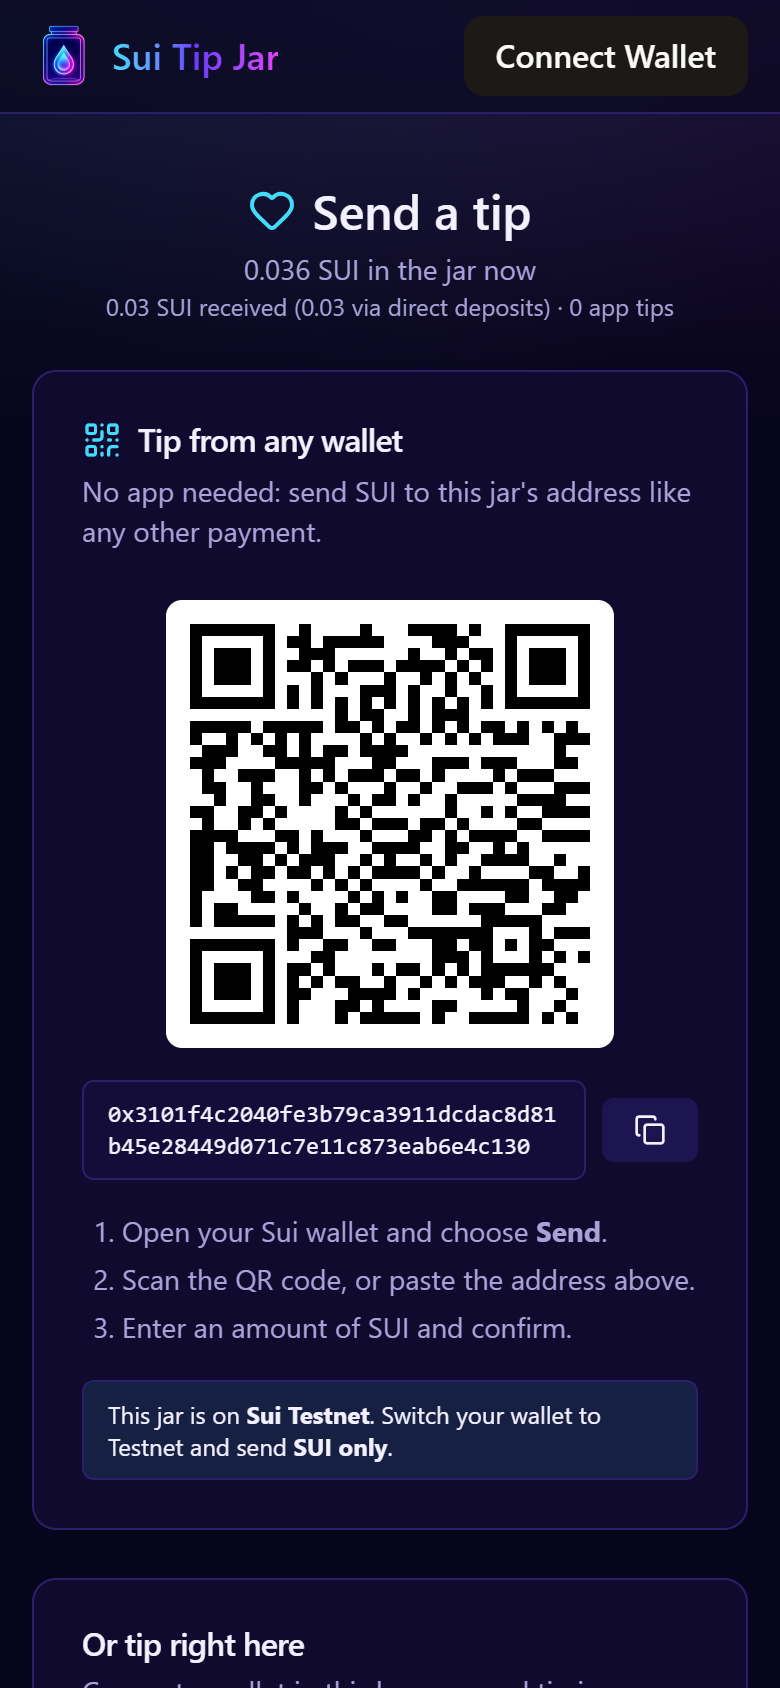
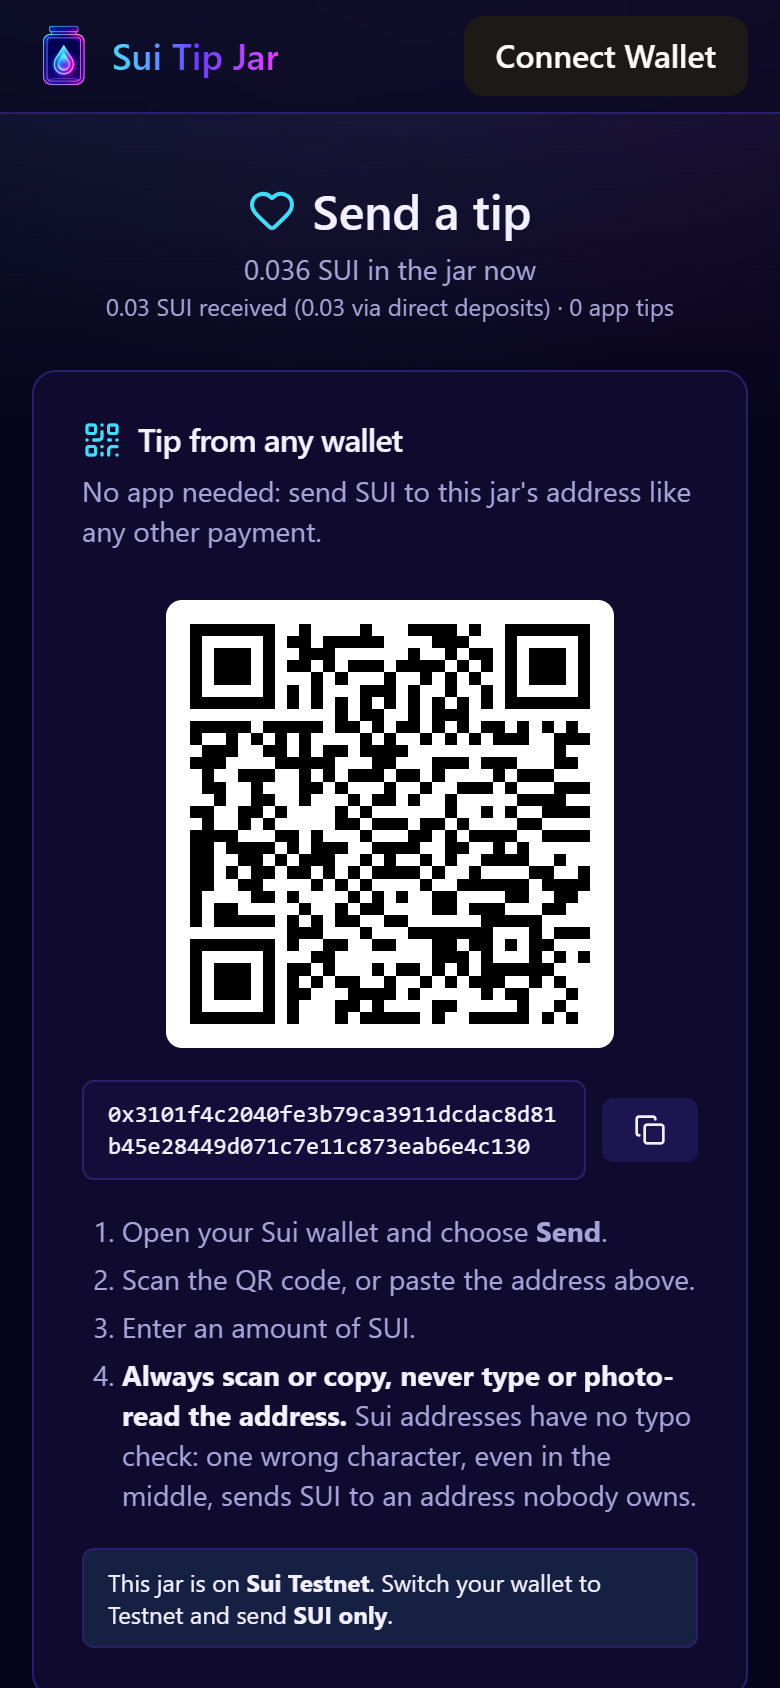
Guard against mistyped jar addresses: copy button, shortened ID, scan-or-copy warning

Changed region(s): [[0.0923, 0.7701, 0.9231, 0.9858], [0.0308, 0.8934, 0.0615, 0.9242]]

diff --git a/frontend/src/MyJars.tsx b/frontend/src/MyJars.tsx
@@ -11,6 +11,7 @@ import {
   formatSui,
   OWNER_CAP_TYPE,
   OwnerCapBcs,
+  shortAddress,
   tipSummary,
   withdrawAllTx,
 } from "./tipJar";
@@ -109,22 +110,26 @@ function JarCard({ jarId, capId, owner }: { jarId: string; capId: string; owner:
   const jar = useJar(jarId);
   const deposits = usePendingDeposits(jarId);
   const { run, pending, error } = useTransact();
-  const [copied, setCopied] = useState(false);
+  const [copied, setCopied] = useState<"link" | "address" | null>(null);
   const [showActivity, setShowActivity] = useState(false);
   const funds = jar.data ? BigInt(jar.data.funds) : 0n;
   const waiting = deposits.data?.total ?? 0n;
   const waitingCount = deposits.data ? deposits.data.coinIds.length + (deposits.data.addressBalance > 0n ? 1 : 0) : 0;
 
-  async function copy() {
-    await navigator.clipboard.writeText(tipLink(jarId));
-    setCopied(true);
-    setTimeout(() => setCopied(false), 1500);
+  async function copy(what: "link" | "address") {
+    await navigator.clipboard.writeText(what === "link" ? tipLink(jarId) : jarId);
+    setCopied(what);
+    setTimeout(() => setCopied(null), 1500);
   }
 
   return (
     <Card>
       <CardHeader>
-        <CardTitle className="font-mono text-sm break-all">{jarId}</CardTitle>
+        {/* Shortened on purpose: Sui addresses have no checksum, so a retyped or
+            photo-scanned address with one wrong character sends funds to nobody. */}
+        <CardTitle title={jarId}>
+          Tip jar <span className="font-mono text-sm text-muted-foreground">{shortAddress(jarId)}</span>
+        </CardTitle>
         <CardDescription>
           {jar.data ? `${tipSummary(jar.data)} all-time` : "Loading..."}
         </CardDescription>
@@ -140,13 +145,17 @@ function JarCard({ jarId, capId, owner }: { jarId: string; capId: string; owner:
           )}
         </div>
         <div className="flex flex-wrap gap-2">
-          <Button variant="secondary" onClick={copy}>
-            {copied ? <Check className="h-4 w-4" /> : <Copy className="h-4 w-4" />}
-            {copied ? "Copied" : "Copy tip link"}
+          <Button variant="secondary" onClick={() => copy("link")}>
+            {copied === "link" ? <Check className="h-4 w-4" /> : <Copy className="h-4 w-4" />}
+            {copied === "link" ? "Copied" : "Copy tip link"}
+          </Button>
+          <Button variant="secondary" onClick={() => copy("address")}>
+            {copied === "address" ? <Check className="h-4 w-4" /> : <Copy className="h-4 w-4" />}
+            {copied === "address" ? "Copied" : "Copy jar address"}
           </Button>
           <a href={tipLink(jarId)}>
             <Button variant="secondary">
-              <ExternalLink className="h-4 w-4" /> Open tip page
+              <ExternalLink className="h-4 w-4" /> Open tip page (QR)
             </Button>
           </a>
           {deposits.data && waiting > 0n && (

diff --git a/frontend/src/TipPage.tsx b/frontend/src/TipPage.tsx
@@ -82,7 +82,11 @@ function AnyWalletCard({ jarId }: { jarId: string }) {
         <ol className="list-decimal space-y-1 pl-5 text-sm text-muted-foreground">
           <li>Open your Sui wallet and choose <strong>Send</strong>.</li>
           <li>Scan the QR code, or paste the address above.</li>
-          <li>Enter an amount of SUI and confirm.</li>
+          <li>Enter an amount of SUI.</li>
+          <li>
+            <strong className="text-foreground">Always scan or copy, never type or photo-read the address.</strong> Sui
+            addresses have no typo check: one wrong character, even in the middle, sends SUI to an address nobody owns.
+          </li>
         </ol>
         <p className="rounded-md border border-sui/40 bg-sui/10 px-3 py-2 text-xs">
           This jar is on <strong>Sui Testnet</strong>. Switch your wallet to Testnet and send <strong>SUI only</strong>.
